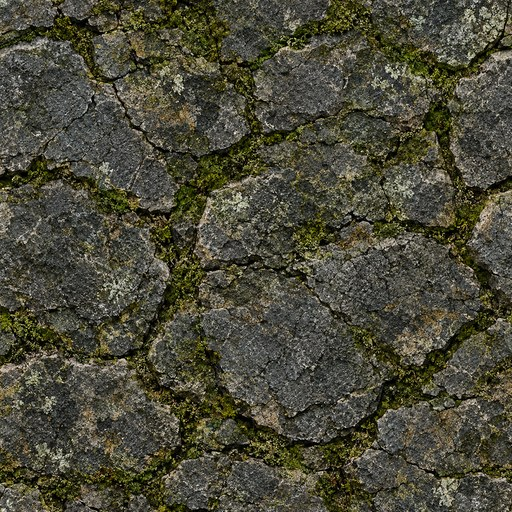
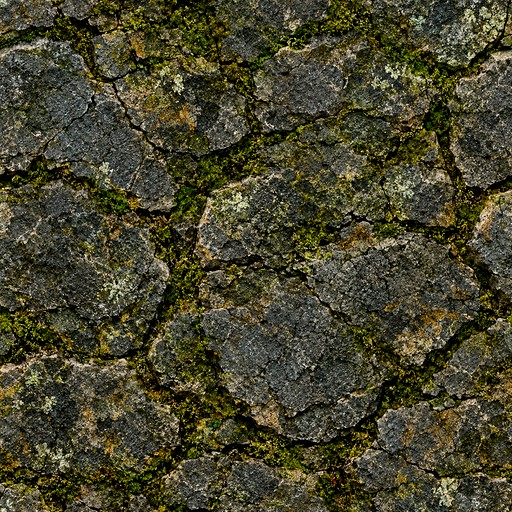
Tighten stone-moss dice skin to match reference art more closely
Tested in-app on a live roll: the skin was rendering as flat,
washed-out sage-grey instead of the dark-crack / vivid-moss look
from the reference. Two real causes (not texture repeat/UV scale,
which was already correct — a face shows ~1 full tile):

- The material was blending in a soft teal accent tint on every die,
  which pushed the whole stone surface toward one hue and flattened
  its contrast. Added a `tintable` flag per skin; stone-moss is now
  untinted so its own true colors show.
- The source textures themselves were low-contrast. Boosted albedo
  contrast/saturation (cracks darker, moss more vivid), and roughly
  doubled the normal map's bump strength (3.0 -> 7.0) so the carved
  relief actually reads at the die's on-screen size.

Claude-Session: https://claude.ai/code/session_014XNtyRgK8dthAFMgoF7hGJ

diff --git a/apps/desktop/src/renderer/features/dice3d/diceScene.ts b/apps/desktop/src/renderer/features/dice3d/diceScene.ts
@@ -137,11 +137,12 @@ export function showDice(
   const halfW = halfH * (w / h);
 
   // The skin's roughness map carries the real roughness detail (moss duller, bare stone
-  // smoother); `color` stays a soft accent tint rather than a full party-color wash, so the
-  // stone-and-moss look from the reference art survives instead of being dyed solid teal.
+  // smoother). A tintable skin gets a soft accent wash instead of full party-color dye; a
+  // non-tintable one (stone, metal — anything meant to show its own true colors) stays
+  // untouched white so the texture's own contrast isn't flattened toward one hue.
   const skin = DICE_SKINS[skinId] ?? DICE_SKINS[DEFAULT_DICE_SKIN];
   const tex = getSkinTextures(skin);
-  const tint = new Color(0xffffff).lerp(new Color(color), 0.18);
+  const tint = skin.tintable ? new Color(0xffffff).lerp(new Color(color), 0.18) : new Color(0xffffff);
   const body = new MeshStandardMaterial({
     color: tint,
     map: tex.albedo,

diff --git a/apps/desktop/src/renderer/features/dice3d/diceSkins.ts b/apps/desktop/src/renderer/features/dice3d/diceSkins.ts
@@ -19,6 +19,12 @@ export interface DiceSkin {
   metalness: number;
   /** Texture repeats per face, tuned per skin so the grain reads at the right scale. */
   repeat: number;
+  /**
+   * Whether the die body blends in the caller's accent color on top of the texture. A
+   * realistic material skin (stone, metal) should show its own true colors — tinting it
+   * washes the whole thing toward one hue and flattens the contrast the texture provides.
+   */
+  tintable: boolean;
 }
 
 export const DICE_SKINS: Record<string, DiceSkin> = {
@@ -29,6 +35,7 @@ export const DICE_SKINS: Record<string, DiceSkin> = {
     roughness: stoneMossRoughness,
     metalness: 0.03,
     repeat: 1,
+    tintable: false,
   },
 };
 
